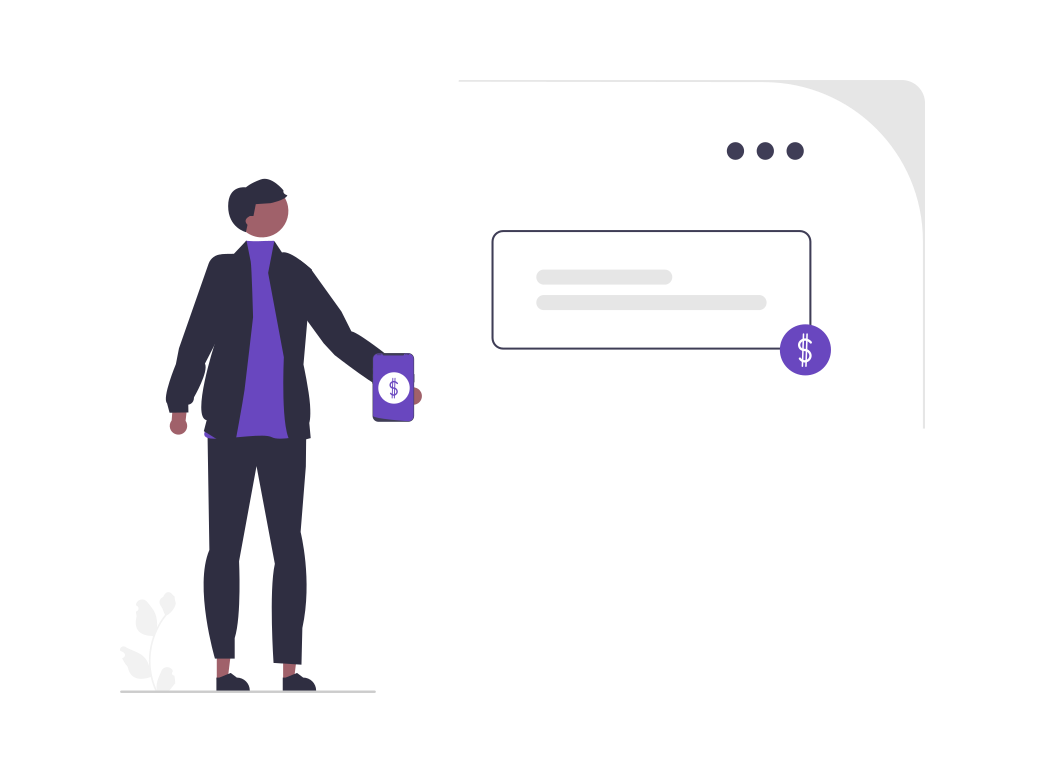
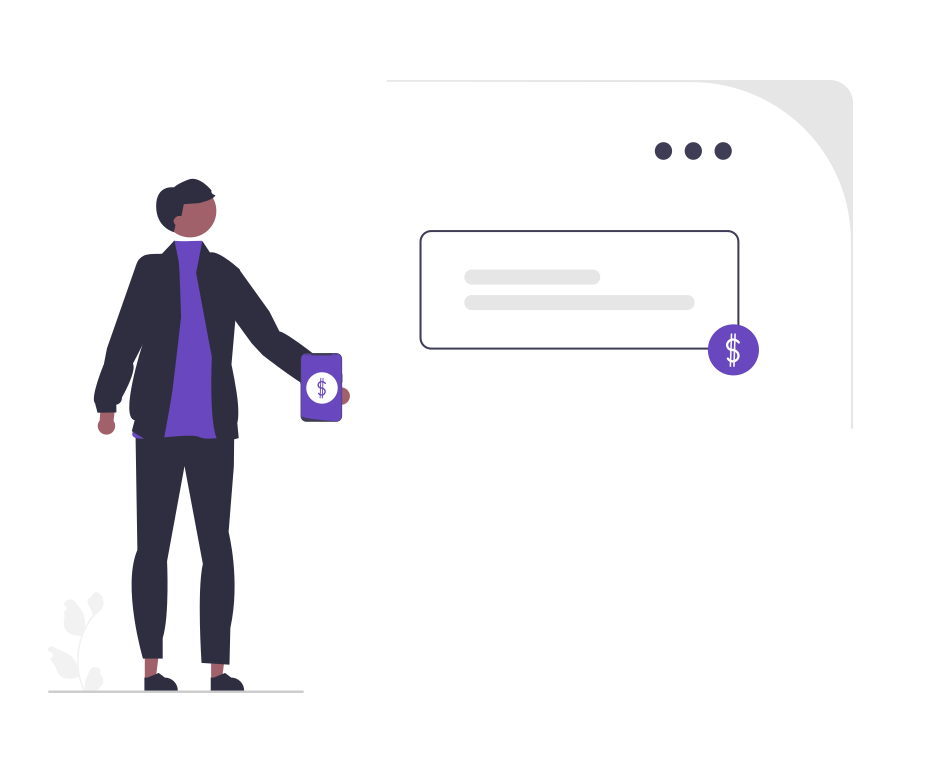
style update

diff --git a/index.html b/index.html
@@ -10,6 +10,7 @@
     <link rel="stylesheet"
         href="https://cdn.rawgit.com/mfd/09b70eb47474836f25a21660282ce0fd/raw/e06a670afcb2b861ed2ac4a1ef752d062ef6b46b/Gilroy.css">
     <link rel="stylesheet" href="style.css">
+    <link rel="stylesheet" href="responsive.css">
     <title>ZuAcademy</title>
 </head>
 

diff --git a/style.css b/style.css
@@ -43,11 +43,12 @@
 
 .page:nth-child(1) {
 	background-image: url("./images/1.png");
+	background-position: 2%;
 }
 
 .page:nth-child(2) {
 	background-image: url("./images/2.png");
-	background-position: -40%;
+	background-position: 2%;
 }
 
 .page:nth-child(4) {
